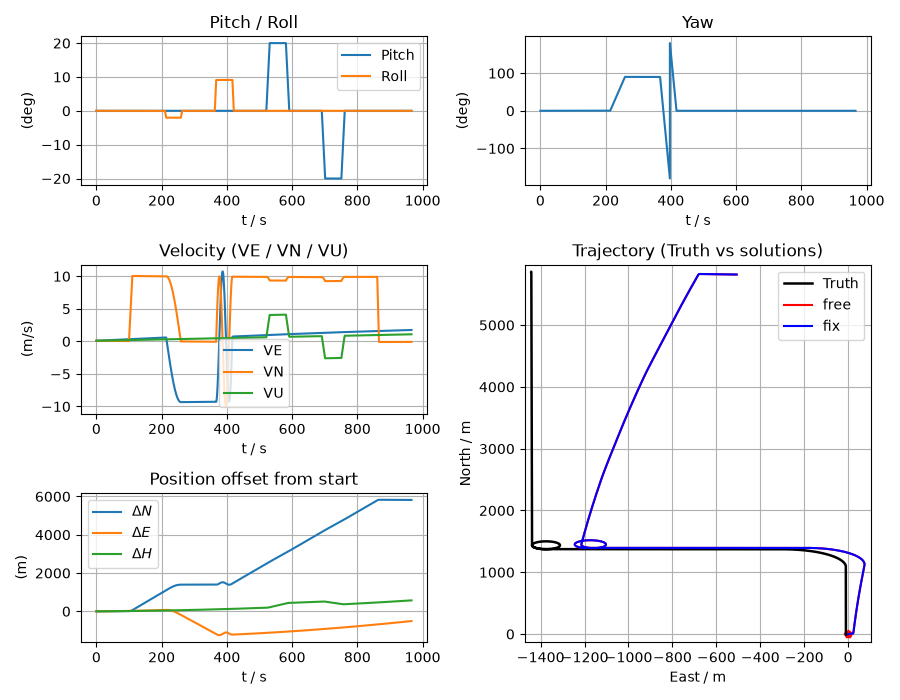
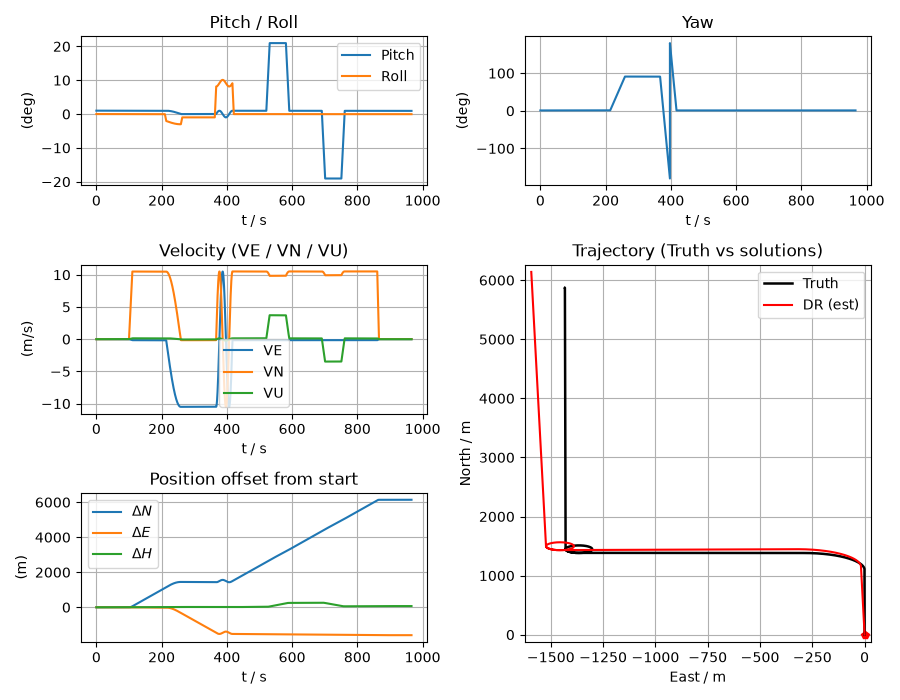
拆解PSINS P3：新增 DR vs Truth 3D 轨迹对比图
- gen_dr.py/.m 双轨接入 miniinsplot3d：
  Python 生成 miniinsplot3d_cmp_dr.png（红 DR vs 黑 Truth，Z=高度误差×8）
  MATLAB 版加调用但 saveas 注释（matlab -batch 开图崩溃）
- P3 文本可复现§4：新增 miniinsplot3d_cmp_dr.png 说明，
  强调 DR 垂直误差小、水平发散才是主角；修正"仓库内 PNG 由 Python 生成"
- 重跑 Python 路径后，miniinsplot_dr.png / miniinsplot_cmp.png 同步更新为
  Python 生成产物，与 P3 文案表述一致
- 构建验证：mkdocs build -d _bt 通过（3D 图正确进入站点）

diff --git a/docs/惯性导航/assets/gen_dr.m b/docs/惯性导航/assets/gen_dr.m
@@ -98,6 +98,8 @@ miniinsplot(avp, trj, 'cmp');  % 真值 vs 估计值 同图叠（对比模式）
 % saveas(gcf, 'miniinsplot_cmp.png'); close(gcf);
 miniavpcmpplot(trj, {avp}, {'dr'});
 % saveas(gcf, 'miniavpcmpplot_dr.png'); close(gcf);
+miniinsplot3d({avp}, trj, 'cmp_dr');   % 3D 轨迹对比（DR vs 真值；Z=高度误差×8，与 P2 约定一致）
+% saveas(gcf, 'miniinsplot3d_cmp_dr.png'); close(gcf);
 
 end
 

diff --git a/docs/惯性导航/04_拆解PSINS篇/P3_航位推算_拆解test_DR.md b/docs/惯性导航/04_拆解PSINS篇/P3_航位推算_拆解test_DR.md
@@ -197,10 +197,11 @@ dr.qnb = qupdt(dr.qnb, phim - dr.Cnb'*dr.eth.wnin*nts);
     4. **误差统计**：
         - 分轴/分方向：att RMS (2972.4, 667.8, 3714.9)″；水平位置误差 RMS 149.0 m、末点 313.4 m；垂直 31.7 m（末 68.6 m）。
         - `miniavpcmpplot` 图标题使用的**总口径**：姿态三轴合在一起的 RMS ≈ 2944 arcsec，位置 NEH 三轴合在一起的 RMS ≈ 107.6 m。两种口径都对，只是分母维度不同，读图时不要直接混为一谈。
-    5. **可视化**：生成 `miniinsplot_truth.png`（真值轨迹）、`miniinsplot_dr.png`（DR 解算轨迹）、`miniinsplot_cmp.png`（真值 vs DR 同图叠加，新增）、`miniavpcmpplot_dr.png`（DR vs 真值残差）。
+    5. **可视化**：生成 `miniinsplot_truth.png`（真值轨迹）、`miniinsplot_dr.png`（DR 解算轨迹）、`miniinsplot_cmp.png`（真值 vs DR 同图叠加）、`miniavpcmpplot_dr.png`（DR vs 真值残差）、`miniinsplot3d_cmp_dr.png`（**3D 轨迹对比，新增**）。
        - `miniinsplot_cmp.png` 是 PSINS 风格的核心对比图：轨迹子图用**红线（DR 估计值）叠黑线（真值，参考基准）**，起点红星，一眼可见几何偏差。配色约定与 P2 统一（真值永远黑线）。
+       - `miniinsplot3d_cmp_dr.png`：**黑线=真值躺在 Z=0 参考平面，红线=DR（标签 `DR (est)`）**。注意 DR 的垂直误差很小（末点 68.6 m，×8 后约 550 m），而水平误差才是主角（末点 313 m 发散）——所以这张 3D 图主要展示 **DR 路径在水平面上逐渐"甩开"真值**的过程，Z 轴只有小幅波动。这正是 DR 与 P2 纯惯导（垂直无界发散）的本质区别：**DR 的命门是航向/水平，不是垂直**。该图为 PSINS 原版不画的增强图，Z 放大约定同 P2。
 
-    绘图复用 P2 的 `assets/miniinsplot.m` / `miniavpcmpplot.m`（MATLAB）和 `assets/miniplot.py`（Python），具体对齐 PSINS 的注记见 [P2 第十节](P2_纯惯导_拆解test_SINS.md#_10)。本次新增 `miniinsplot` 的**对比模式**（`miniinsplot(dr, truth, 'cmp')`），在轨迹子图同图叠真值与估计；双轨（MATLAB/Python）轨迹朝向统一为 **East-right / North-up**（与 PSINS 一致）。仓库里保存的是 MATLAB 版 PNG。
+    绘图复用 P2 的 `assets/miniinsplot.m` / `miniavpcmpplot.m` / `miniinsplot3d.m`（MATLAB）和 `assets/miniplot.py`（Python），具体对齐 PSINS 的注记见 [P2 第十节](P2_纯惯导_拆解test_SINS.md#_10) 与 [附录：绘图函数与 MATLAB 惯用法](../04_拆解PSINS篇/附录_绘图函数与MATLAB惯用法.md)。`miniinsplot` 的**对比模式**（`miniinsplot(dr, truth, 'cmp')`）、`miniinsplot3d` 的 3D 对比均双轨可用；双轨（MATLAB/Python）轨迹朝向统一为 **East-right / North-up**（与 PSINS 一致）。仓库内 PNG 由 **Python 路径生成**（本环境 `matlab -batch` 开图崩溃，故 `.m` 的 `saveas` 默认注释，仅作参考/对拍）。
 
     对不上？先 `git diff docs/惯性导航/assets/gen_dr.py gen_dr.m` 确认脚本没被改过。想和 PSINS 原版对拍：在 MATLAB 里 `addpath(genpath('PSINS目录'))` 后先跑 `test_SINS_trj` 生成 `trj10ms.mat`，再跑 `test_DR`。
 
